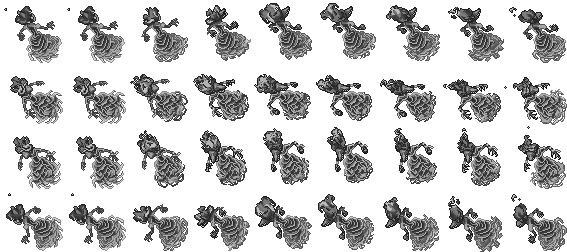
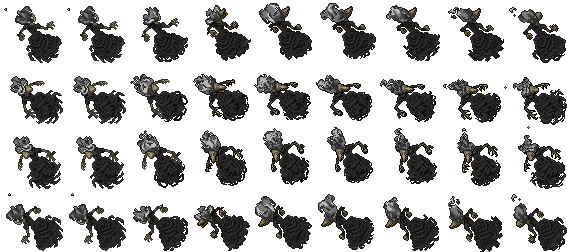
feat(boss): adiciona Faceless Bane (Buried Cathedral, 250+, 16h cooldown)

diff --git a/tibia-idle/game/js/tilepatterndata.js b/tibia-idle/game/js/tilepatterndata.js
@@ -1,3 +1,3 @@
 /* Gerado por tools/import_otbm_sprites.py.
  * Patterns X/Y reais do DAT por coordenada do mapa. */
-window.TILE_PATTERNS = {"290":{"px":2,"py":1,"af":1,"aw":32,"ah":32,"durations":[120],"duration":120},"291":{"px":1,"py":2,"af":1,"aw":32,"ah":32,"durations":[120],"duration":120},"292":{"px":2,"py":1,"af":1,"aw":32,"ah":32,"durations":[120],"duration":120},"295":{"px":1,"py":2,"af":1,"aw":32,"ah":32,"durations":[120],"duration":120},"1056":{"px":2,"py":2,"af":1,"aw":32,"ah":32,"durations":[120],"duration":120},"1100":{"px":4,"py":1,"af":1,"aw":32,"ah":32,"durations":[120],"duration":120},"1101":{"px":1,"py":4,"af":1,"aw":32,"ah":32,"durations":[120],"duration":120},"1102":{"px":4,"py":1,"af":1,"aw":32,"ah":32,"durations":[120],"duration":120},"1103":{"px":1,"py":4,"af":1,"aw":32,"ah":32,"durations":[120],"duration":120},"1128":{"px":4,"py":4,"af":1,"aw":64,"ah":64,"durations":[120],"duration":120},"4457":{"px":1,"py":4,"af":1,"aw":64,"ah":64,"durations":[120],"duration":120},"4458":{"px":4,"py":1,"af":1,"aw":64,"ah":64,"durations":[120],"duration":120},"4460":{"px":4,"py":1,"af":1,"aw":64,"ah":64,"durations":[120],"duration":120},"4461":{"px":1,"py":4,"af":1,"aw":64,"ah":64,"durations":[120],"duration":120},"4462":{"px":2,"py":1,"af":1,"aw":64,"ah":64,"durations":[120],"duration":120},"4463":{"px":2,"py":1,"af":1,"aw":64,"ah":64,"durations":[120],"duration":120},"4464":{"px":2,"py":1,"af":1,"aw":64,"ah":64,"durations":[120],"duration":120},"4465":{"px":2,"py":1,"af":1,"aw":64,"ah":64,"durations":[120],"duration":120},"4815":{"px":1,"py":4,"af":1,"aw":32,"ah":64,"durations":[120],"duration":120},"4816":{"px":4,"py":1,"af":1,"aw":64,"ah":32,"durations":[120],"duration":120},"10113":{"px":2,"py":2,"af":4,"aw":32,"ah":32,"durations":[500,500,500,500],"duration":2000},"10605":{"px":4,"py":4,"af":1,"aw":32,"ah":32,"durations":[120],"duration":120},"16288":{"px":2,"py":1,"af":1,"aw":32,"ah":32,"durations":[120],"duration":120},"16289":{"px":1,"py":2,"af":1,"aw":32,"ah":32,"durations":[120],"duration":120},"16290":{"px":2,"py":1,"af":1,"aw":32,"ah":32,"durations":[120],"duration":120},"16291":{"px":1,"py":2,"af":1,"aw":32,"ah":32,"durations":[120],"duration":120},"16668":{"px":1,"py":2,"af":1,"aw":64,"ah":64,"durations":[120],"duration":120},"16670":{"px":2,"py":1,"af":1,"aw":64,"ah":64,"durations":[120],"duration":120},"16676":{"px":2,"py":1,"af":1,"aw":64,"ah":64,"durations":[120],"duration":120},"16866":{"px":4,"py":4,"af":1,"aw":64,"ah":64,"durations":[120],"duration":120},"37929":{"px":4,"py":1,"af":1,"aw":64,"ah":64,"durations":[120],"duration":120},"37930":{"px":4,"py":1,"af":1,"aw":64,"ah":64,"durations":[120],"duration":120},"37931":{"px":4,"py":1,"af":1,"aw":64,"ah":64,"durations":[120],"duration":120},"37933":{"px":3,"py":1,"af":1,"aw":64,"ah":64,"durations":[120],"duration":120},"37934":{"px":3,"py":1,"af":1,"aw":64,"ah":64,"durations":[120],"duration":120},"37938":{"px":1,"py":4,"af":1,"aw":64,"ah":64,"durations":[120],"duration":120},"37940":{"px":1,"py":4,"af":1,"aw":64,"ah":64,"durations":[120],"duration":120},"37950":{"px":2,"py":1,"af":1,"aw":64,"ah":64,"durations":[120],"duration":120},"38088":{"px":3,"py":1,"af":1,"aw":32,"ah":32,"durations":[120],"duration":120},"38090":{"px":1,"py":3,"af":1,"aw":32,"ah":32,"durations":[120],"duration":120},"38092":{"px":1,"py":2,"af":1,"aw":32,"ah":32,"durations":[120],"duration":120},"38462":{"px":3,"py":1,"af":14,"aw":32,"ah":32,"durations":[200,200,200,200,200,200,200,200,200,200,200,200,200,200],"duration":2800},"38463":{"px":3,"py":1,"af":14,"aw":32,"ah":32,"durations":[200,200,200,200,200,200,200,200,200,200,200,200,200,200],"duration":2800},"38464":{"px":1,"py":3,"af":14,"aw":32,"ah":32,"durations":[200,200,200,200,200,200,200,200,200,200,200,200,200,200],"duration":2800},"38465":{"px":1,"py":3,"af":14,"aw":32,"ah":32,"durations":[200,200,200,200,200,200,200,200,200,200,200,200,200,200],"duration":2800},"38466":{"px":2,"py":1,"af":14,"aw":32,"ah":32,"durations":[200,200,200,200,200,200,200,200,200,200,200,200,200,200],"duration":2800},"38467":{"px":2,"py":1,"af":14,"aw":32,"ah":32,"durations":[200,200,200,200,200,200,200,200,200,200,200,200,200,200],"duration":2800},"38468":{"px":2,"py":1,"af":14,"aw":32,"ah":32,"durations":[200,200,200,200,200,200,200,200,200,200,200,200,200,200],"duration":2800},"38469":{"px":2,"py":1,"af":14,"aw":32,"ah":32,"durations":[200,200,200,200,200,200,200,200,200,200,200,200,200,200],"duration":2800},"38712":{"px":3,"py":1,"af":14,"aw":32,"ah":32,"durations":[200,200,200,200,200,200,200,200,200,200,200,200,200,200],"duration":2800},"38713":{"px":3,"py":1,"af":14,"aw":32,"ah":32,"durations":[200,200,200,200,200,200,200,200,200,200,200,200,200,200],"duration":2800},"38714":{"px":1,"py":3,"af":14,"aw":32,"ah":32,"durations":[200,200,200,200,200,200,200,200,200,200,200,200,200,200],"duration":2800},"38715":{"px":1,"py":3,"af":14,"aw":32,"ah":32,"durations":[200,200,200,200,200,200,200,200,200,200,200,200,200,200],"duration":2800},"38915":{"px":3,"py":1,"af":1,"aw":32,"ah":32,"durations":[120],"duration":120},"38916":{"px":3,"py":1,"af":1,"aw":32,"ah":32,"durations":[120],"duration":120},"38917":{"px":1,"py":3,"af":1,"aw":32,"ah":32,"durations":[120],"duration":120},"38918":{"px":1,"py":3,"af":1,"aw":32,"ah":32,"durations":[120],"duration":120},"5260":{"px":1,"py":3,"af":1,"aw":64,"ah":64,"durations":[120],"duration":120},"5261":{"px":3,"py":1,"af":1,"aw":64,"ah":64,"durations":[120],"duration":120},"8308":{"px":2,"py":2,"af":1,"aw":32,"ah":32,"durations":[120],"duration":120},"8309":{"px":2,"py":2,"af":1,"aw":32,"ah":32,"durations":[120],"duration":120},"8653":{"px":2,"py":1,"af":1,"aw":32,"ah":32,"durations":[120],"duration":120},"8654":{"px":2,"py":1,"af":1,"aw":32,"ah":32,"durations":[120],"duration":120},"12358":{"px":1,"py":2,"af":1,"aw":32,"ah":32,"durations":[120],"duration":120},"12359":{"px":1,"py":2,"af":1,"aw":32,"ah":32,"durations":[120],"duration":120},"16667":{"px":1,"py":3,"af":1,"aw":64,"ah":64,"durations":[120],"duration":120},"16669":{"px":3,"py":1,"af":1,"aw":64,"ah":64,"durations":[120],"duration":120},"16675":{"px":2,"py":1,"af":1,"aw":64,"ah":64,"durations":[120],"duration":120},"37932":{"px":3,"py":1,"af":1,"aw":64,"ah":64,"durations":[120],"duration":120},"13467":{"px":3,"py":1,"af":1,"aw":32,"ah":32,"durations":[120],"duration":120},"14949":{"px":2,"py":2,"af":1,"aw":64,"ah":64,"durations":[120],"duration":120},"15472":{"px":4,"py":4,"af":1,"aw":32,"ah":32,"durations":[120],"duration":120},"32638":{"px":4,"py":4,"af":1,"aw":64,"ah":64,"durations":[120],"duration":120},"410":{"px":4,"py":2,"af":1,"aw":32,"ah":32,"durations":[120],"duration":120},"870":{"px":4,"py":2,"af":1,"aw":32,"ah":32,"durations":[120],"duration":120},"4515":{"px":2,"py":2,"af":1,"aw":32,"ah":32,"durations":[120],"duration":120},"6280":{"px":3,"py":1,"af":1,"aw":64,"ah":64,"durations":[120],"duration":120},"6281":{"px":1,"py":3,"af":1,"aw":64,"ah":64,"durations":[120],"duration":120},"6282":{"px":2,"py":1,"af":1,"aw":64,"ah":32,"durations":[120],"duration":120},"6283":{"px":1,"py":2,"af":1,"aw":32,"ah":64,"durations":[120],"duration":120},"10561":{"px":2,"py":1,"af":1,"aw":32,"ah":32,"durations":[120],"duration":120},"32371":{"px":2,"py":1,"af":1,"aw":32,"ah":32,"durations":[120],"duration":120},"33061":{"px":1,"py":3,"af":1,"aw":64,"ah":64,"durations":[120],"duration":120},"33062":{"px":3,"py":1,"af":1,"aw":64,"ah":64,"durations":[120],"duration":120},"33740":{"px":3,"py":1,"af":1,"aw":32,"ah":32,"durations":[120],"duration":120},"33742":{"px":3,"py":1,"af":1,"aw":32,"ah":32,"durations":[120],"duration":120},"33743":{"px":1,"py":3,"af":1,"aw":32,"ah":32,"durations":[120],"duration":120},"33744":{"px":2,"py":1,"af":1,"aw":32,"ah":32,"durations":[120],"duration":120},"33746":{"px":2,"py":1,"af":1,"aw":32,"ah":32,"durations":[120],"duration":120},"12356":{"px":2,"py":1,"af":1,"aw":32,"ah":32,"durations":[120],"duration":120},"12357":{"px":2,"py":1,"af":1,"aw":32,"ah":32,"durations":[120],"duration":120},"10735":{"px":3,"py":3,"af":16,"aw":64,"ah":64,"durations":[500,500,500,500,500,500,500,500,500,500,500,500,500,500,500,500],"duration":8000},"10736":{"px":3,"py":3,"af":16,"aw":64,"ah":64,"durations":[500,500,500,500,500,500,500,500,500,500,500,500,500,500,500,500],"duration":8000},"10737":{"px":3,"py":3,"af":16,"aw":64,"ah":64,"durations":[500,500,500,500,500,500,500,500,500,500,500,500,500,500,500,500],"duration":8000},"10740":{"px":3,"py":3,"af":16,"aw":64,"ah":64,"durations":[500,500,500,500,500,500,500,500,500,500,500,500,500,500,500,500],"duration":8000},"13241":{"px":2,"py":1,"af":1,"aw":32,"ah":32,"durations":[120],"duration":120},"13242":{"px":2,"py":1,"af":1,"aw":32,"ah":32,"durations":[120],"duration":120},"13243":{"px":2,"py":1,"af":1,"aw":32,"ah":32,"durations":[120],"duration":120},"13244":{"px":2,"py":1,"af":1,"aw":32,"ah":32,"durations":[120],"duration":120},"13253":{"px":2,"py":1,"af":1,"aw":32,"ah":32,"durations":[120],"duration":120},"22893":{"px":2,"py":2,"af":1,"aw":32,"ah":32,"durations":[120],"duration":120},"26980":{"px":4,"py":1,"af":1,"aw":64,"ah":64,"durations":[120],"duration":120},"26986":{"px":1,"py":4,"af":1,"aw":64,"ah":64,"durations":[120],"duration":120},"26995":{"px":4,"py":4,"af":1,"aw":64,"ah":64,"durations":[120],"duration":120},"26996":{"px":4,"py":1,"af":1,"aw":64,"ah":64,"durations":[120],"duration":120},"26997":{"px":1,"py":4,"af":1,"aw":64,"ah":64,"durations":[120],"duration":120},"27000":{"px":2,"py":2,"af":1,"aw":64,"ah":64,"durations":[120],"duration":120},"32200":{"px":4,"py":1,"af":1,"aw":64,"ah":64,"durations":[120],"duration":120},"32207":{"px":1,"py":4,"af":1,"aw":64,"ah":64,"durations":[120],"duration":120},"32209":{"px":1,"py":4,"af":1,"aw":64,"ah":64,"durations":[120],"duration":120},"32216":{"px":1,"py":4,"af":1,"aw":64,"ah":64,"durations":[120],"duration":120},"32218":{"px":2,"py":2,"af":1,"aw":64,"ah":64,"durations":[120],"duration":120},"32219":{"px":2,"py":2,"af":1,"aw":64,"ah":64,"durations":[120],"duration":120},"32220":{"px":2,"py":2,"af":1,"aw":64,"ah":64,"durations":[120],"duration":120},"33156":{"px":4,"py":1,"af":1,"aw":64,"ah":64,"durations":[120],"duration":120},"33157":{"px":2,"py":1,"af":1,"aw":64,"ah":64,"durations":[120],"duration":120},"33159":{"px":2,"py":1,"af":1,"aw":64,"ah":64,"durations":[120],"duration":120},"33160":{"px":1,"py":4,"af":1,"aw":64,"ah":64,"durations":[120],"duration":120},"33242":{"px":4,"py":1,"af":1,"aw":64,"ah":64,"durations":[120],"duration":120},"968":{"px":2,"py":1,"af":1,"aw":64,"ah":64,"durations":[120],"duration":120},"982":{"px":2,"py":2,"af":1,"aw":32,"ah":32,"durations":[120],"duration":120},"6477":{"px":2,"py":1,"af":1,"aw":32,"ah":32,"durations":[120],"duration":120},"6479":{"px":1,"py":2,"af":1,"aw":32,"ah":32,"durations":[120],"duration":120},"11925":{"px":4,"py":4,"af":1,"aw":32,"ah":32,"durations":[120],"duration":120},"26981":{"px":4,"py":1,"af":1,"aw":64,"ah":64,"durations":[120],"duration":120},"26987":{"px":1,"py":4,"af":1,"aw":64,"ah":64,"durations":[120],"duration":120},"26999":{"px":2,"py":2,"af":1,"aw":64,"ah":64,"durations":[120],"duration":120},"33154":{"px":4,"py":1,"af":1,"aw":64,"ah":64,"durations":[120],"duration":120},"33155":{"px":4,"py":1,"af":1,"aw":64,"ah":64,"durations":[120],"duration":120},"33158":{"px":2,"py":1,"af":1,"aw":64,"ah":64,"durations":[120],"duration":120},"33161":{"px":1,"py":4,"af":1,"aw":64,"ah":64,"durations":[120],"duration":120},"33162":{"px":1,"py":4,"af":1,"aw":64,"ah":64,"durations":[120],"duration":120},"33163":{"px":1,"py":2,"af":1,"aw":64,"ah":64,"durations":[120],"duration":120},"33164":{"px":1,"py":2,"af":1,"aw":64,"ah":64,"durations":[120],"duration":120},"33165":{"px":1,"py":2,"af":1,"aw":64,"ah":64,"durations":[120],"duration":120},"33182":{"px":2,"py":1,"af":1,"aw":64,"ah":64,"durations":[120],"duration":120},"33240":{"px":2,"py":1,"af":1,"aw":64,"ah":64,"durations":[120],"duration":120},"103":{"px":4,"py":3,"af":1,"aw":32,"ah":32,"durations":[120],"duration":120},"2895":{"px":4,"py":2,"af":1,"aw":32,"ah":32,"durations":[120],"duration":120},"2898":{"px":4,"py":2,"af":1,"aw":32,"ah":32,"durations":[120],"duration":120},"2899":{"px":4,"py":2,"af":1,"aw":32,"ah":32,"durations":[120],"duration":120},"11942":{"px":4,"py":4,"af":1,"aw":32,"ah":32,"durations":[120],"duration":120},"15048":{"px":3,"py":1,"af":1,"aw":32,"ah":32,"durations":[120],"duration":120},"15049":{"px":3,"py":1,"af":1,"aw":32,"ah":32,"durations":[120],"duration":120},"15050":{"px":3,"py":1,"af":1,"aw":32,"ah":32,"durations":[120],"duration":120},"15051":{"px":3,"py":1,"af":1,"aw":32,"ah":32,"durations":[120],"duration":120},"1026":{"px":1,"py":3,"af":1,"aw":64,"ah":64,"durations":[120],"duration":120},"1027":{"px":3,"py":1,"af":1,"aw":64,"ah":64,"durations":[120],"duration":120},"4747":{"px":1,"py":2,"af":1,"aw":64,"ah":64,"durations":[120],"duration":120},"4748":{"px":2,"py":1,"af":1,"aw":64,"ah":64,"durations":[120],"duration":120},"9246":{"px":4,"py":4,"af":1,"aw":64,"ah":64,"durations":[120],"duration":120},"499":{"px":2,"py":2,"af":1,"aw":32,"ah":32,"durations":[120],"duration":120},"1294":{"px":1,"py":2,"af":1,"aw":64,"ah":64,"durations":[120],"duration":120},"1295":{"px":2,"py":1,"af":1,"aw":64,"ah":64,"durations":[120],"duration":120},"15060":{"px":1,"py":4,"af":1,"aw":64,"ah":64,"durations":[120],"duration":120},"15061":{"px":1,"py":4,"af":1,"aw":64,"ah":64,"durations":[120],"duration":120},"15069":{"px":4,"py":1,"af":1,"aw":64,"ah":64,"durations":[120],"duration":120},"15095":{"px":1,"py":3,"af":1,"aw":64,"ah":64,"durations":[120],"duration":120},"15101":{"px":2,"py":2,"af":1,"aw":64,"ah":64,"durations":[120],"duration":120},"15102":{"px":2,"py":2,"af":1,"aw":64,"ah":64,"durations":[120],"duration":120},"15103":{"px":2,"py":2,"af":1,"aw":64,"ah":64,"durations":[120],"duration":120},"15267":{"px":3,"py":1,"af":1,"aw":64,"ah":64,"durations":[120],"duration":120},"351":{"px":4,"py":4,"af":1,"aw":32,"ah":32,"durations":[120],"duration":120},"353":{"px":4,"py":4,"af":1,"aw":32,"ah":32,"durations":[120],"duration":120},"354":{"px":4,"py":4,"af":1,"aw":32,"ah":32,"durations":[120],"duration":120},"4503":{"px":2,"py":1,"af":1,"aw":32,"ah":32,"durations":[120],"duration":120},"4504":{"px":1,"py":2,"af":1,"aw":32,"ah":32,"durations":[120],"duration":120},"4505":{"px":2,"py":1,"af":1,"aw":32,"ah":32,"durations":[120],"duration":120},"4506":{"px":1,"py":2,"af":1,"aw":32,"ah":32,"durations":[120],"duration":120},"13517":{"px":2,"py":1,"af":1,"aw":32,"ah":32,"durations":[120],"duration":120},"13520":{"px":1,"py":2,"af":1,"aw":32,"ah":32,"durations":[120],"duration":120},"13522":{"px":2,"py":1,"af":1,"aw":32,"ah":32,"durations":[120],"duration":120},"13524":{"px":1,"py":2,"af":1,"aw":32,"ah":32,"durations":[120],"duration":120},"13539":{"px":2,"py":1,"af":1,"aw":32,"ah":32,"durations":[120],"duration":120},"13540":{"px":2,"py":1,"af":1,"aw":32,"ah":32,"durations":[120],"duration":120},"13541":{"px":1,"py":2,"af":1,"aw":32,"ah":32,"durations":[120],"duration":120},"13542":{"px":1,"py":2,"af":1,"aw":32,"ah":32,"durations":[120],"duration":120},"13813":{"px":1,"py":2,"af":1,"aw":32,"ah":32,"durations":[120],"duration":120},"21508":{"px":1,"py":4,"af":1,"aw":64,"ah":64,"durations":[120],"duration":120},"21509":{"px":1,"py":3,"af":1,"aw":64,"ah":64,"durations":[120],"duration":120},"21510":{"px":4,"py":1,"af":1,"aw":64,"ah":64,"durations":[120],"duration":120},"21511":{"px":3,"py":1,"af":1,"aw":64,"ah":64,"durations":[120],"duration":120},"21512":{"px":2,"py":1,"af":1,"aw":64,"ah":64,"durations":[120],"duration":120},"21513":{"px":2,"py":1,"af":1,"aw":64,"ah":64,"durations":[120],"duration":120},"21514":{"px":2,"py":1,"af":1,"aw":64,"ah":64,"durations":[120],"duration":120},"21559":{"px":2,"py":2,"af":1,"aw":32,"ah":32,"durations":[120],"duration":120},"1720":{"px":3,"py":1,"af":3,"aw":64,"ah":64,"durations":[500,500,500],"duration":1500},"2889":{"px":4,"py":2,"af":1,"aw":32,"ah":32,"durations":[120],"duration":120},"2890":{"px":4,"py":2,"af":1,"aw":32,"ah":32,"durations":[120],"duration":120},"15208":{"px":4,"py":3,"af":1,"aw":32,"ah":32,"durations":[120],"duration":120}};
+window.TILE_PATTERNS = {"290":{"px":2,"py":1,"af":1,"aw":32,"ah":32,"durations":[120],"duration":120},"291":{"px":1,"py":2,"af":1,"aw":32,"ah":32,"durations":[120],"duration":120},"292":{"px":2,"py":1,"af":1,"aw":32,"ah":32,"durations":[120],"duration":120},"295":{"px":1,"py":2,"af":1,"aw":32,"ah":32,"durations":[120],"duration":120},"1056":{"px":2,"py":2,"af":1,"aw":32,"ah":32,"durations":[120],"duration":120},"1100":{"px":4,"py":1,"af":1,"aw":32,"ah":32,"durations":[120],"duration":120},"1101":{"px":1,"py":4,"af":1,"aw":32,"ah":32,"durations":[120],"duration":120},"1102":{"px":4,"py":1,"af":1,"aw":32,"ah":32,"durations":[120],"duration":120},"1103":{"px":1,"py":4,"af":1,"aw":32,"ah":32,"durations":[120],"duration":120},"1128":{"px":4,"py":4,"af":1,"aw":64,"ah":64,"durations":[120],"duration":120},"4457":{"px":1,"py":4,"af":1,"aw":64,"ah":64,"durations":[120],"duration":120},"4458":{"px":4,"py":1,"af":1,"aw":64,"ah":64,"durations":[120],"duration":120},"4460":{"px":4,"py":1,"af":1,"aw":64,"ah":64,"durations":[120],"duration":120},"4461":{"px":1,"py":4,"af":1,"aw":64,"ah":64,"durations":[120],"duration":120},"4462":{"px":2,"py":1,"af":1,"aw":64,"ah":64,"durations":[120],"duration":120},"4463":{"px":2,"py":1,"af":1,"aw":64,"ah":64,"durations":[120],"duration":120},"4464":{"px":2,"py":1,"af":1,"aw":64,"ah":64,"durations":[120],"duration":120},"4465":{"px":2,"py":1,"af":1,"aw":64,"ah":64,"durations":[120],"duration":120},"4815":{"px":1,"py":4,"af":1,"aw":32,"ah":64,"durations":[120],"duration":120},"4816":{"px":4,"py":1,"af":1,"aw":64,"ah":32,"durations":[120],"duration":120},"10113":{"px":2,"py":2,"af":4,"aw":32,"ah":32,"durations":[500,500,500,500],"duration":2000},"10605":{"px":4,"py":4,"af":1,"aw":32,"ah":32,"durations":[120],"duration":120},"16288":{"px":2,"py":1,"af":1,"aw":32,"ah":32,"durations":[120],"duration":120},"16289":{"px":1,"py":2,"af":1,"aw":32,"ah":32,"durations":[120],"duration":120},"16290":{"px":2,"py":1,"af":1,"aw":32,"ah":32,"durations":[120],"duration":120},"16291":{"px":1,"py":2,"af":1,"aw":32,"ah":32,"durations":[120],"duration":120},"16668":{"px":1,"py":2,"af":1,"aw":64,"ah":64,"durations":[120],"duration":120},"16670":{"px":2,"py":1,"af":1,"aw":64,"ah":64,"durations":[120],"duration":120},"16676":{"px":2,"py":1,"af":1,"aw":64,"ah":64,"durations":[120],"duration":120},"16866":{"px":4,"py":4,"af":1,"aw":64,"ah":64,"durations":[120],"duration":120},"37929":{"px":4,"py":1,"af":1,"aw":64,"ah":64,"durations":[120],"duration":120},"37930":{"px":4,"py":1,"af":1,"aw":64,"ah":64,"durations":[120],"duration":120},"37931":{"px":4,"py":1,"af":1,"aw":64,"ah":64,"durations":[120],"duration":120},"37933":{"px":3,"py":1,"af":1,"aw":64,"ah":64,"durations":[120],"duration":120},"37934":{"px":3,"py":1,"af":1,"aw":64,"ah":64,"durations":[120],"duration":120},"37938":{"px":1,"py":4,"af":1,"aw":64,"ah":64,"durations":[120],"duration":120},"37940":{"px":1,"py":4,"af":1,"aw":64,"ah":64,"durations":[120],"duration":120},"37950":{"px":2,"py":1,"af":1,"aw":64,"ah":64,"durations":[120],"duration":120},"38088":{"px":3,"py":1,"af":1,"aw":32,"ah":32,"durations":[120],"duration":120},"38090":{"px":1,"py":3,"af":1,"aw":32,"ah":32,"durations":[120],"duration":120},"38092":{"px":1,"py":2,"af":1,"aw":32,"ah":32,"durations":[120],"duration":120},"38462":{"px":3,"py":1,"af":14,"aw":32,"ah":32,"durations":[200,200,200,200,200,200,200,200,200,200,200,200,200,200],"duration":2800},"38463":{"px":3,"py":1,"af":14,"aw":32,"ah":32,"durations":[200,200,200,200,200,200,200,200,200,200,200,200,200,200],"duration":2800},"38464":{"px":1,"py":3,"af":14,"aw":32,"ah":32,"durations":[200,200,200,200,200,200,200,200,200,200,200,200,200,200],"duration":2800},"38465":{"px":1,"py":3,"af":14,"aw":32,"ah":32,"durations":[200,200,200,200,200,200,200,200,200,200,200,200,200,200],"duration":2800},"38466":{"px":2,"py":1,"af":14,"aw":32,"ah":32,"durations":[200,200,200,200,200,200,200,200,200,200,200,200,200,200],"duration":2800},"38467":{"px":2,"py":1,"af":14,"aw":32,"ah":32,"durations":[200,200,200,200,200,200,200,200,200,200,200,200,200,200],"duration":2800},"38468":{"px":2,"py":1,"af":14,"aw":32,"ah":32,"durations":[200,200,200,200,200,200,200,200,200,200,200,200,200,200],"duration":2800},"38469":{"px":2,"py":1,"af":14,"aw":32,"ah":32,"durations":[200,200,200,200,200,200,200,200,200,200,200,200,200,200],"duration":2800},"38712":{"px":3,"py":1,"af":14,"aw":32,"ah":32,"durations":[200,200,200,200,200,200,200,200,200,200,200,200,200,200],"duration":2800},"38713":{"px":3,"py":1,"af":14,"aw":32,"ah":32,"durations":[200,200,200,200,200,200,200,200,200,200,200,200,200,200],"duration":2800},"38714":{"px":1,"py":3,"af":14,"aw":32,"ah":32,"durations":[200,200,200,200,200,200,200,200,200,200,200,200,200,200],"duration":2800},"38715":{"px":1,"py":3,"af":14,"aw":32,"ah":32,"durations":[200,200,200,200,200,200,200,200,200,200,200,200,200,200],"duration":2800},"38915":{"px":3,"py":1,"af":1,"aw":32,"ah":32,"durations":[120],"duration":120},"38916":{"px":3,"py":1,"af":1,"aw":32,"ah":32,"durations":[120],"duration":120},"38917":{"px":1,"py":3,"af":1,"aw":32,"ah":32,"durations":[120],"duration":120},"38918":{"px":1,"py":3,"af":1,"aw":32,"ah":32,"durations":[120],"duration":120},"5260":{"px":1,"py":3,"af":1,"aw":64,"ah":64,"durations":[120],"duration":120},"5261":{"px":3,"py":1,"af":1,"aw":64,"ah":64,"durations":[120],"duration":120},"8308":{"px":2,"py":2,"af":1,"aw":32,"ah":32,"durations":[120],"duration":120},"8309":{"px":2,"py":2,"af":1,"aw":32,"ah":32,"durations":[120],"duration":120},"8653":{"px":2,"py":1,"af":1,"aw":32,"ah":32,"durations":[120],"duration":120},"8654":{"px":2,"py":1,"af":1,"aw":32,"ah":32,"durations":[120],"duration":120},"12358":{"px":1,"py":2,"af":1,"aw":32,"ah":32,"durations":[120],"duration":120},"12359":{"px":1,"py":2,"af":1,"aw":32,"ah":32,"durations":[120],"duration":120},"16667":{"px":1,"py":3,"af":1,"aw":64,"ah":64,"durations":[120],"duration":120},"16669":{"px":3,"py":1,"af":1,"aw":64,"ah":64,"durations":[120],"duration":120},"16675":{"px":2,"py":1,"af":1,"aw":64,"ah":64,"durations":[120],"duration":120},"37932":{"px":3,"py":1,"af":1,"aw":64,"ah":64,"durations":[120],"duration":120},"13467":{"px":3,"py":1,"af":1,"aw":32,"ah":32,"durations":[120],"duration":120},"14949":{"px":2,"py":2,"af":1,"aw":64,"ah":64,"durations":[120],"duration":120},"15472":{"px":4,"py":4,"af":1,"aw":32,"ah":32,"durations":[120],"duration":120},"32638":{"px":4,"py":4,"af":1,"aw":64,"ah":64,"durations":[120],"duration":120},"410":{"px":4,"py":2,"af":1,"aw":32,"ah":32,"durations":[120],"duration":120},"870":{"px":4,"py":2,"af":1,"aw":32,"ah":32,"durations":[120],"duration":120},"4515":{"px":2,"py":2,"af":1,"aw":32,"ah":32,"durations":[120],"duration":120},"6280":{"px":3,"py":1,"af":1,"aw":64,"ah":64,"durations":[120],"duration":120},"6281":{"px":1,"py":3,"af":1,"aw":64,"ah":64,"durations":[120],"duration":120},"6282":{"px":2,"py":1,"af":1,"aw":64,"ah":32,"durations":[120],"duration":120},"6283":{"px":1,"py":2,"af":1,"aw":32,"ah":64,"durations":[120],"duration":120},"10561":{"px":2,"py":1,"af":1,"aw":32,"ah":32,"durations":[120],"duration":120},"32371":{"px":2,"py":1,"af":1,"aw":32,"ah":32,"durations":[120],"duration":120},"33061":{"px":1,"py":3,"af":1,"aw":64,"ah":64,"durations":[120],"duration":120},"33062":{"px":3,"py":1,"af":1,"aw":64,"ah":64,"durations":[120],"duration":120},"33740":{"px":3,"py":1,"af":1,"aw":32,"ah":32,"durations":[120],"duration":120},"33742":{"px":3,"py":1,"af":1,"aw":32,"ah":32,"durations":[120],"duration":120},"33743":{"px":1,"py":3,"af":1,"aw":32,"ah":32,"durations":[120],"duration":120},"33744":{"px":2,"py":1,"af":1,"aw":32,"ah":32,"durations":[120],"duration":120},"33746":{"px":2,"py":1,"af":1,"aw":32,"ah":32,"durations":[120],"duration":120},"12356":{"px":2,"py":1,"af":1,"aw":32,"ah":32,"durations":[120],"duration":120},"12357":{"px":2,"py":1,"af":1,"aw":32,"ah":32,"durations":[120],"duration":120},"10735":{"px":3,"py":3,"af":16,"aw":64,"ah":64,"durations":[500,500,500,500,500,500,500,500,500,500,500,500,500,500,500,500],"duration":8000},"10736":{"px":3,"py":3,"af":16,"aw":64,"ah":64,"durations":[500,500,500,500,500,500,500,500,500,500,500,500,500,500,500,500],"duration":8000},"10737":{"px":3,"py":3,"af":16,"aw":64,"ah":64,"durations":[500,500,500,500,500,500,500,500,500,500,500,500,500,500,500,500],"duration":8000},"10740":{"px":3,"py":3,"af":16,"aw":64,"ah":64,"durations":[500,500,500,500,500,500,500,500,500,500,500,500,500,500,500,500],"duration":8000},"13241":{"px":2,"py":1,"af":1,"aw":32,"ah":32,"durations":[120],"duration":120},"13242":{"px":2,"py":1,"af":1,"aw":32,"ah":32,"durations":[120],"duration":120},"13243":{"px":2,"py":1,"af":1,"aw":32,"ah":32,"durations":[120],"duration":120},"13244":{"px":2,"py":1,"af":1,"aw":32,"ah":32,"durations":[120],"duration":120},"13253":{"px":2,"py":1,"af":1,"aw":32,"ah":32,"durations":[120],"duration":120},"22893":{"px":2,"py":2,"af":1,"aw":32,"ah":32,"durations":[120],"duration":120},"26980":{"px":4,"py":1,"af":1,"aw":64,"ah":64,"durations":[120],"duration":120},"26986":{"px":1,"py":4,"af":1,"aw":64,"ah":64,"durations":[120],"duration":120},"26995":{"px":4,"py":4,"af":1,"aw":64,"ah":64,"durations":[120],"duration":120},"26996":{"px":4,"py":1,"af":1,"aw":64,"ah":64,"durations":[120],"duration":120},"26997":{"px":1,"py":4,"af":1,"aw":64,"ah":64,"durations":[120],"duration":120},"27000":{"px":2,"py":2,"af":1,"aw":64,"ah":64,"durations":[120],"duration":120},"32200":{"px":4,"py":1,"af":1,"aw":64,"ah":64,"durations":[120],"duration":120},"32207":{"px":1,"py":4,"af":1,"aw":64,"ah":64,"durations":[120],"duration":120},"32209":{"px":1,"py":4,"af":1,"aw":64,"ah":64,"durations":[120],"duration":120},"32216":{"px":1,"py":4,"af":1,"aw":64,"ah":64,"durations":[120],"duration":120},"32218":{"px":2,"py":2,"af":1,"aw":64,"ah":64,"durations":[120],"duration":120},"32219":{"px":2,"py":2,"af":1,"aw":64,"ah":64,"durations":[120],"duration":120},"32220":{"px":2,"py":2,"af":1,"aw":64,"ah":64,"durations":[120],"duration":120},"33156":{"px":4,"py":1,"af":1,"aw":64,"ah":64,"durations":[120],"duration":120},"33157":{"px":2,"py":1,"af":1,"aw":64,"ah":64,"durations":[120],"duration":120},"33159":{"px":2,"py":1,"af":1,"aw":64,"ah":64,"durations":[120],"duration":120},"33160":{"px":1,"py":4,"af":1,"aw":64,"ah":64,"durations":[120],"duration":120},"33242":{"px":4,"py":1,"af":1,"aw":64,"ah":64,"durations":[120],"duration":120},"968":{"px":2,"py":1,"af":1,"aw":64,"ah":64,"durations":[120],"duration":120},"982":{"px":2,"py":2,"af":1,"aw":32,"ah":32,"durations":[120],"duration":120},"6477":{"px":2,"py":1,"af":1,"aw":32,"ah":32,"durations":[120],"duration":120},"6479":{"px":1,"py":2,"af":1,"aw":32,"ah":32,"durations":[120],"duration":120},"11925":{"px":4,"py":4,"af":1,"aw":32,"ah":32,"durations":[120],"duration":120},"26981":{"px":4,"py":1,"af":1,"aw":64,"ah":64,"durations":[120],"duration":120},"26987":{"px":1,"py":4,"af":1,"aw":64,"ah":64,"durations":[120],"duration":120},"26999":{"px":2,"py":2,"af":1,"aw":64,"ah":64,"durations":[120],"duration":120},"33154":{"px":4,"py":1,"af":1,"aw":64,"ah":64,"durations":[120],"duration":120},"33155":{"px":4,"py":1,"af":1,"aw":64,"ah":64,"durations":[120],"duration":120},"33158":{"px":2,"py":1,"af":1,"aw":64,"ah":64,"durations":[120],"duration":120},"33161":{"px":1,"py":4,"af":1,"aw":64,"ah":64,"durations":[120],"duration":120},"33162":{"px":1,"py":4,"af":1,"aw":64,"ah":64,"durations":[120],"duration":120},"33163":{"px":1,"py":2,"af":1,"aw":64,"ah":64,"durations":[120],"duration":120},"33164":{"px":1,"py":2,"af":1,"aw":64,"ah":64,"durations":[120],"duration":120},"33165":{"px":1,"py":2,"af":1,"aw":64,"ah":64,"durations":[120],"duration":120},"33182":{"px":2,"py":1,"af":1,"aw":64,"ah":64,"durations":[120],"duration":120},"33240":{"px":2,"py":1,"af":1,"aw":64,"ah":64,"durations":[120],"duration":120},"103":{"px":4,"py":3,"af":1,"aw":32,"ah":32,"durations":[120],"duration":120},"2895":{"px":4,"py":2,"af":1,"aw":32,"ah":32,"durations":[120],"duration":120},"2898":{"px":4,"py":2,"af":1,"aw":32,"ah":32,"durations":[120],"duration":120},"2899":{"px":4,"py":2,"af":1,"aw":32,"ah":32,"durations":[120],"duration":120},"11942":{"px":4,"py":4,"af":1,"aw":32,"ah":32,"durations":[120],"duration":120},"15048":{"px":3,"py":1,"af":1,"aw":32,"ah":32,"durations":[120],"duration":120},"15049":{"px":3,"py":1,"af":1,"aw":32,"ah":32,"durations":[120],"duration":120},"15050":{"px":3,"py":1,"af":1,"aw":32,"ah":32,"durations":[120],"duration":120},"15051":{"px":3,"py":1,"af":1,"aw":32,"ah":32,"durations":[120],"duration":120},"1026":{"px":1,"py":3,"af":1,"aw":64,"ah":64,"durations":[120],"duration":120},"1027":{"px":3,"py":1,"af":1,"aw":64,"ah":64,"durations":[120],"duration":120},"4747":{"px":1,"py":2,"af":1,"aw":64,"ah":64,"durations":[120],"duration":120},"4748":{"px":2,"py":1,"af":1,"aw":64,"ah":64,"durations":[120],"duration":120},"9246":{"px":4,"py":4,"af":1,"aw":64,"ah":64,"durations":[120],"duration":120},"499":{"px":2,"py":2,"af":1,"aw":32,"ah":32,"durations":[120],"duration":120},"1294":{"px":1,"py":2,"af":1,"aw":64,"ah":64,"durations":[120],"duration":120},"1295":{"px":2,"py":1,"af":1,"aw":64,"ah":64,"durations":[120],"duration":120},"15060":{"px":1,"py":4,"af":1,"aw":64,"ah":64,"durations":[120],"duration":120},"15061":{"px":1,"py":4,"af":1,"aw":64,"ah":64,"durations":[120],"duration":120},"15069":{"px":4,"py":1,"af":1,"aw":64,"ah":64,"durations":[120],"duration":120},"15095":{"px":1,"py":3,"af":1,"aw":64,"ah":64,"durations":[120],"duration":120},"15101":{"px":2,"py":2,"af":1,"aw":64,"ah":64,"durations":[120],"duration":120},"15102":{"px":2,"py":2,"af":1,"aw":64,"ah":64,"durations":[120],"duration":120},"15103":{"px":2,"py":2,"af":1,"aw":64,"ah":64,"durations":[120],"duration":120},"15267":{"px":3,"py":1,"af":1,"aw":64,"ah":64,"durations":[120],"duration":120},"351":{"px":4,"py":4,"af":1,"aw":32,"ah":32,"durations":[120],"duration":120},"353":{"px":4,"py":4,"af":1,"aw":32,"ah":32,"durations":[120],"duration":120},"354":{"px":4,"py":4,"af":1,"aw":32,"ah":32,"durations":[120],"duration":120},"4503":{"px":2,"py":1,"af":1,"aw":32,"ah":32,"durations":[120],"duration":120},"4504":{"px":1,"py":2,"af":1,"aw":32,"ah":32,"durations":[120],"duration":120},"4505":{"px":2,"py":1,"af":1,"aw":32,"ah":32,"durations":[120],"duration":120},"4506":{"px":1,"py":2,"af":1,"aw":32,"ah":32,"durations":[120],"duration":120},"13517":{"px":2,"py":1,"af":1,"aw":32,"ah":32,"durations":[120],"duration":120},"13520":{"px":1,"py":2,"af":1,"aw":32,"ah":32,"durations":[120],"duration":120},"13522":{"px":2,"py":1,"af":1,"aw":32,"ah":32,"durations":[120],"duration":120},"13524":{"px":1,"py":2,"af":1,"aw":32,"ah":32,"durations":[120],"duration":120},"13539":{"px":2,"py":1,"af":1,"aw":32,"ah":32,"durations":[120],"duration":120},"13540":{"px":2,"py":1,"af":1,"aw":32,"ah":32,"durations":[120],"duration":120},"13541":{"px":1,"py":2,"af":1,"aw":32,"ah":32,"durations":[120],"duration":120},"13542":{"px":1,"py":2,"af":1,"aw":32,"ah":32,"durations":[120],"duration":120},"13813":{"px":1,"py":2,"af":1,"aw":32,"ah":32,"durations":[120],"duration":120},"21508":{"px":1,"py":4,"af":1,"aw":64,"ah":64,"durations":[120],"duration":120},"21509":{"px":1,"py":3,"af":1,"aw":64,"ah":64,"durations":[120],"duration":120},"21510":{"px":4,"py":1,"af":1,"aw":64,"ah":64,"durations":[120],"duration":120},"21511":{"px":3,"py":1,"af":1,"aw":64,"ah":64,"durations":[120],"duration":120},"21512":{"px":2,"py":1,"af":1,"aw":64,"ah":64,"durations":[120],"duration":120},"21513":{"px":2,"py":1,"af":1,"aw":64,"ah":64,"durations":[120],"duration":120},"21514":{"px":2,"py":1,"af":1,"aw":64,"ah":64,"durations":[120],"duration":120},"21559":{"px":2,"py":2,"af":1,"aw":32,"ah":32,"durations":[120],"duration":120},"1720":{"px":3,"py":1,"af":3,"aw":64,"ah":64,"durations":[500,500,500],"duration":1500},"2889":{"px":4,"py":2,"af":1,"aw":32,"ah":32,"durations":[120],"duration":120},"2890":{"px":4,"py":2,"af":1,"aw":32,"ah":32,"durations":[120],"duration":120},"15208":{"px":4,"py":3,"af":1,"aw":32,"ah":32,"durations":[120],"duration":120},"8201":{"px":2,"py":3,"af":1,"aw":64,"ah":64,"durations":[120],"duration":120},"8202":{"px":3,"py":2,"af":1,"aw":64,"ah":64,"durations":[120],"duration":120}};

diff --git a/tibia-idle/game/js/faceless-bane.js b/tibia-idle/game/js/faceless-bane.js
@@ -1,0 +1,79 @@
+/* faceless-bane.js — Boss Faceless Bane (Buried Cathedral, nível 250+).
+ *
+ * Boss simples sem mecânica própria: usa o monstro base do Canary
+ * (monsterdata.js) para stats, skills, resistências e loot.
+ * Acesso liberado pela missão Buried Cathedral (250 criaturas).
+ * Cooldown oficial: 16h (aplicado quando BOSS_COOLDOWNS_ENABLED for ligado).
+ */
+"use strict";
+
+const FACELESS_BANE_COOLDOWN_MS = 16 * 60 * 60 * 1000;
+
+const FACELESS_BANE_ROOM = {
+  otbm: "facelessroom",
+  name: "Faceless Bane Room",
+  center: { x: 1072, y: 1002, z: 7 },
+  spawn: { x: 1072, y: 1007, z: 7 },   // playerspawn
+  boss:  { x: 1072, y: 998,  z: 7 },   // bossspawn
+};
+
+const FACELESS_BANE_STATS = {
+  name: "Faceless Bane",
+  hp: 35000,
+  exp: 20000,
+  damage: 575,
+  armor: 10,
+  defense: 5,
+};
+
+(function registerFacelessBane() {
+  if (typeof GAMEDATA === "undefined") return;
+
+  if (!GAMEDATA.hunts) GAMEDATA.hunts = {};
+  GAMEDATA.hunts["faceless-bane-room"] = {
+    name: FACELESS_BANE_ROOM.name,
+    hidden: true,
+    level: 250,
+    minLevel: 250,
+    monsters: ["faceless-bane"],
+    color: "#4a3f66",
+    scene: "crypt",
+    otbm: FACELESS_BANE_ROOM.otbm,
+    otbmFloor: 7,
+    otbmSpawn: FACELESS_BANE_ROOM.spawn,
+    otbmMobBounds: Object.assign({ w: 1, h: 1 }, FACELESS_BANE_ROOM.boss),
+    avgHp: FACELESS_BANE_STATS.hp,
+    avgExp: FACELESS_BANE_STATS.exp,
+    avgDamage: FACELESS_BANE_STATS.damage,
+    avgArmor: FACELESS_BANE_STATS.armor,
+    avgGold: 100,
+    respawn: 1,
+    pack: 1,
+    cat: "boss-room",
+  };
+
+  if (typeof BOSS_DEFS === "undefined") return;
+
+  BOSS_DEFS["faceless-bane"] = {
+    id: "faceless-bane",
+    name: FACELESS_BANE_STATS.name,
+    title: "Boss Buried Cathedral",
+    hunt: "faceless-bane-room",
+    baseMonster: "faceless-bane",
+    sprite: "faceless-bane",
+    hp: FACELESS_BANE_STATS.hp,
+    exp: FACELESS_BANE_STATS.exp,
+    damage: FACELESS_BANE_STATS.damage,
+    armor: FACELESS_BANE_STATS.armor,
+    defense: FACELESS_BANE_STATS.defense,
+    speed: 0.00007,
+    requirement: {
+      level: 250,
+      mission: "buried-cathedral",
+      access: "faceless-bane",
+      text: "Requer nível 250+ e completar a missão Buried Cathedral",
+    },
+    cooldown: FACELESS_BANE_COOLDOWN_MS,
+    // Loot integral do monstro base no Canary.
+  };
+})();

diff --git a/tibia-idle/server/authoritative_engine.js b/tibia-idle/server/authoritative_engine.js
@@ -411,6 +411,8 @@ try{
   // Buried Cathedral: itens de loot (ectoplasms, hexagonal ruby etc.) +
   // hunt 250+ — sem isso o Sell All online não precifica os drops.
   try{vm.runInNewContext(fs.readFileSync(path.join(js,"buried-cathedral.js"),"utf8"),sandbox);}catch(_bc){/* opcional */}
+  // Faceless Bane: boss simples da Buried Cathedral (acesso pela missão).
+  try{vm.runInNewContext(fs.readFileSync(path.join(js,"faceless-bane.js"),"utf8"),sandbox);}catch(_fb){/* opcional */}
   vm.runInNewContext(fs.readFileSync(path.join(js,"weapondata.js"),"utf8"),sandbox);
   sandbox.WEAPONDATA=sandbox.window.WEAPONDATA;
   vm.runInNewContext(fs.readFileSync(path.join(js,"weapons.js"),"utf8"),sandbox);
@@ -469,6 +471,7 @@ const HUNTS=Object.assign(read("hunts.json"),{
   "mota-extension":{monsters:["floating-savant","retching-horror","fury","hellhound","demon"],cat:"hard",pack:10,packMin:6,packMax:10},
   "cobra-bastion":{monsters:["cobra-vizier","cobra-scout","cobra-assassin"],cat:"hard",pack:10,packMin:6,packMax:10},
   "buried-cathedral":{monsters:["ripper-spectre","gazer-spectre","burster-spectre","arachnophobica"],cat:"hard",pack:10,packMin:6,packMax:10},
+  "faceless-bane-room":{monsters:["faceless-bane"]},
   "timira-room":{monsters:["timira-the-many-headed"]},
   "library-fire":{monsters:["burning-book","rage-squid","biting-book"],cat:"hardcore",pack:12,packMin:10,packMax:12},
   "library-energy":{monsters:["energetic-book","biting-book"],cat:"hardcore",pack:12,packMin:10,packMax:12},

diff --git a/tibia-idle/game/index.html b/tibia-idle/game/index.html
@@ -664,6 +664,7 @@
 <script src="js/feast-of-souls.js?v=paleworm-v1"></script>
 <script src="js/deepling-bosses.js?v=deepling-v1"></script>
 <script src="js/buried-cathedral.js?v=buried-cathedral-v1"></script>
+<script src="js/faceless-bane.js?v=faceless-bane-v1"></script>
 <script src="js/world-boss-ui.js?v=wb-shared-v1"></script>
 <script src="js/megalomania-lobby.js?v=mega-auth-backoff-v1"></script>
 <script src="js/pale-worm-lobby.js?v=paleworm-auth-backoff-v1"></script>

diff --git a/tibia-idle/tools/colorize_monsters_canary.py b/tibia-idle/tools/colorize_monsters_canary.py
@@ -142,6 +142,8 @@ CANARY_COLORS = {
     "cobra-vizier":   (19, 19, 67, 78),
     "cobra-scout":    (1, 1, 102, 78),
     "cobra-assassin": (2, 2, 77, 19),
+    # Buried Cathedral boss
+    "faceless-bane":  (0, 2, 95, 97),
     "giant-spider":  None,
     "stone-golem":   None,
     "crypt-shambler": None,
@@ -162,7 +164,8 @@ FORCE_REGEN = {"amazon", "valkyrie", "naga-warrior", "naga-archer",
                "sorcerer-s-apparition", "druid-s-apparition", "monk-s-apparition",
                "rage-squid", "squid-warden", "soulsnatcher", "floating-savant", "fury",
                "cobra-vizier", "cobra-scout",
-               "cobra-assassin"}
+               "cobra-assassin",
+               "faceless-bane"}
 
 # lookAddons oficial. Scout usa addon 2; Assassin addon 1; Vizier sem addon.
 CANARY_ADDONS = {"cobra-vizier": 0, "cobra-scout": 2, "cobra-assassin": 1,
